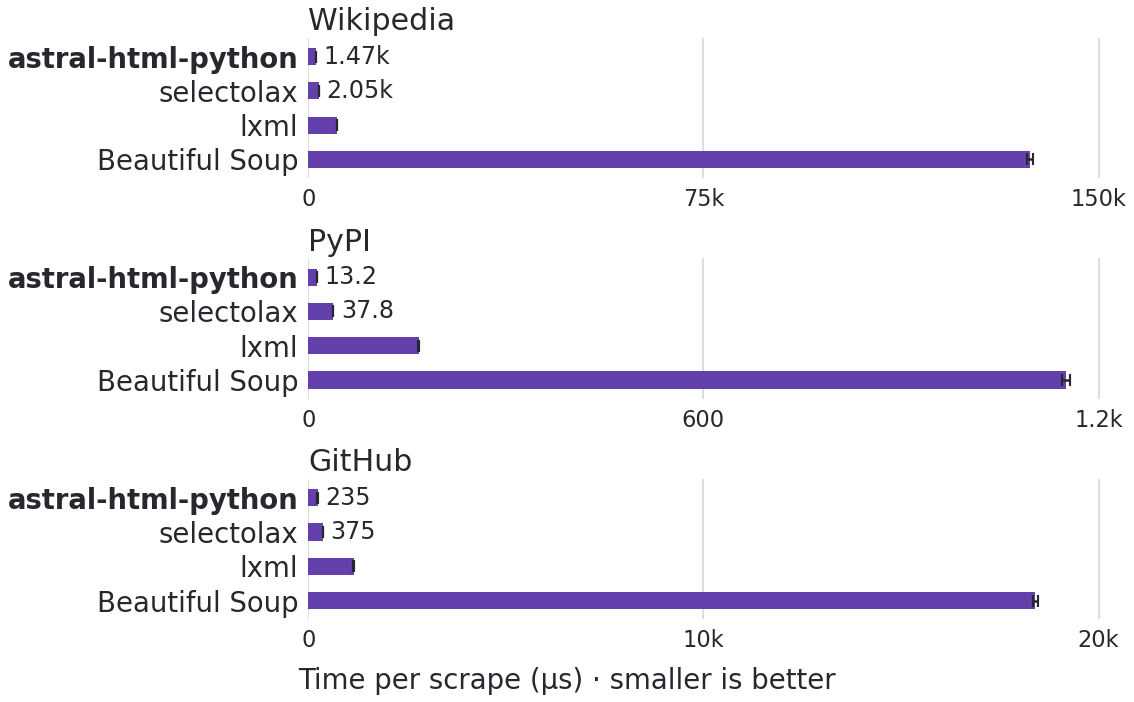
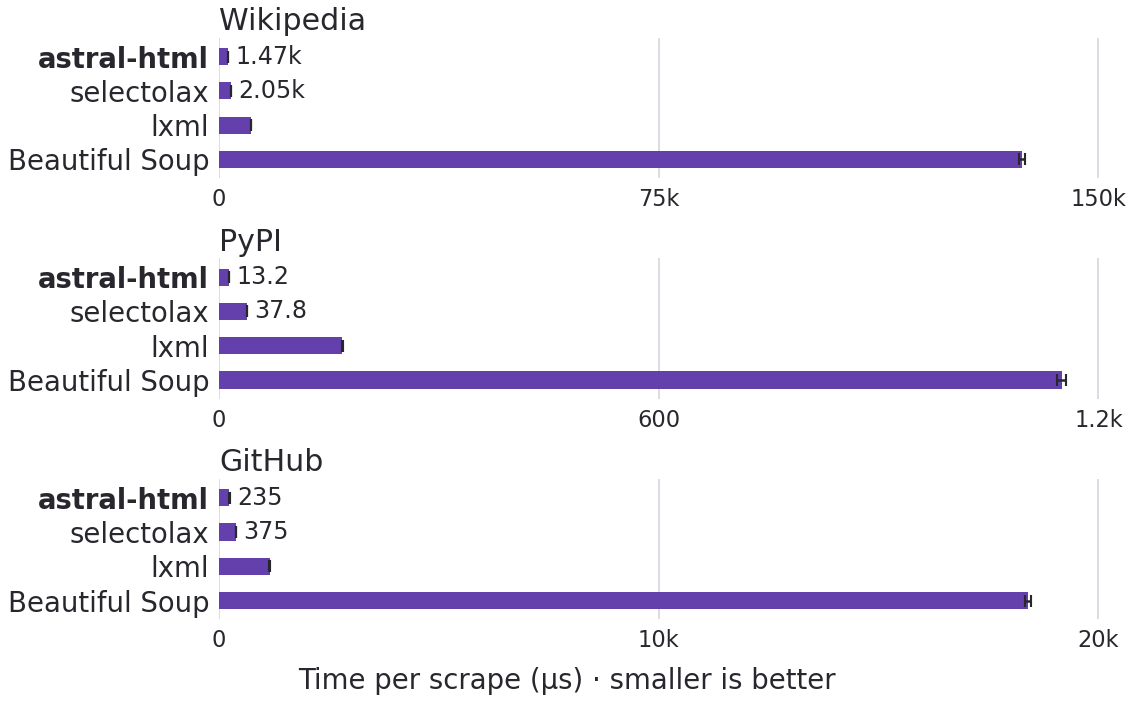
Rename the Python distribution to astral-html (#60)

diff --git a/benchmarks/wheel_abi.py b/benchmarks/wheel_abi.py
@@ -180,6 +180,12 @@ def main():
     cli = argparse.ArgumentParser(description=__doc__)
     cli.add_argument("corpus", nargs="?", type=Path, help="WCXB checkout")
     cli.add_argument("wheels", nargs="?", type=Path, help="wheel directory")
+    cli.add_argument(
+        "--distribution",
+        choices=("astral-html", "astral-html-python"),
+        default="astral-html",
+        help="distribution name used by the wheel source revision",
+    )
     cli.add_argument("--pairs", type=int, default=20)
     action = cli.add_mutually_exclusive_group(required=True)
     action.add_argument("--output", type=Path, help="save raw paired µs/page")
@@ -207,11 +213,12 @@ def main():
         cp = f"cp{sys.version_info.major}{sys.version_info.minor}"
         wheels = []
         hashes = {}
+        wheel_prefix = args.distribution.replace("-", "_")
         for tag in (f"{cp}-{cp}", "cp314-abi3"):
-            matches = list(args.wheels.glob(f"astral_html_python-*-{tag}-*.whl"))
+            matches = list(args.wheels.glob(f"{wheel_prefix}-*-{tag}-*.whl"))
             if len(matches) != 1:
                 cli.error(
-                    f"expected one {tag} astral-html-python wheel, found {matches}"
+                    f"expected one {tag} {args.distribution} wheel, found {matches}"
                 )
             whl = matches[0]
             directory = Path(tmp, whl.name)

diff --git a/benchmarks/plot.py b/benchmarks/plot.py
@@ -15,7 +15,7 @@ data = json.loads((directory / "filtered-links.json").read_text())
 rows = {(row["fixture"], row["parser"]): row for row in data["measurements"]}
 sites = {"wikipedia": "Wikipedia", "pypi": "PyPI", "github": "GitHub"}
 parsers = {
-    "astral-html": "astral-html-python",
+    "astral-html": "astral-html",
     "selectolax (Lexbor)": "selectolax",
     "lxml": "lxml",
     "Beautiful Soup": "Beautiful Soup",

diff --git a/tests/test_api.py b/tests/test_api.py
@@ -1,7 +1,12 @@
 import sys
+from importlib.metadata import metadata
 
 import pytest
 from astral_html import ResourceLimitError, parse
+
+
+def test_distribution_name() -> None:
+    assert metadata("astral-html")["Name"] == "astral-html"
 
 
 def test_parse_and_traverse() -> None:

diff --git a/benchmarks/run.py b/benchmarks/run.py
@@ -336,7 +336,7 @@ def main():
         cli.error("need a positive, finite batch time")
 
     packages = [
-        "astral-html-python",
+        "astral-html",
         "selectolax",
         "lxml",
         "cssselect",

diff --git a/benchmarks/wcxb.md b/benchmarks/wcxb.md
@@ -41,11 +41,11 @@ of both timing groups as well as the extracted URLs and text.
 
 | Parser | Pages matching Lexbor (of 1,867) | Rejected pages | Extracted links |
 | --- | ---: | ---: | ---: |
-| astral-html-python | 1,757 | 1 | 323,196 |
+| astral-html | 1,757 | 1 | 323,196 |
 | selectolax (Lexbor) | 1,867 | 0 | 323,120 |
 | lxml | 1,698 | 0 | 323,344 |
 | Beautiful Soup (lxml) | 641 | 0 | 323,458 |
-| astral-html-python, link subtrees | 1,757 | 1 | 323,196 |
+| astral-html, link subtrees | 1,757 | 1 | 323,196 |
 
 Both Astral modes rejected `dev/html/2875.html.gz` at the nesting limit.
 [Parser limits](../docs/parsing.md#resource-limits)
@@ -58,11 +58,11 @@ contribute the same measurements to both columns.
 
 | Parser | All 1,866 pages (µs/page ± SE) | Identical output on 617 pages (µs/page ± SE) |
 | --- | ---: | ---: |
-| astral-html-python | 729.7 ± 1.2 | 716.4 ± 2.5 |
+| astral-html | 729.7 ± 1.2 | 716.4 ± 2.5 |
 | selectolax (Lexbor) | 961.2 ± 6.2 | 887.6 ± 13.8 |
 | lxml | 2,752.9 ± 5.6 | 2,485.7 ± 12.1 |
 | Beautiful Soup (lxml) | 31,498.0 ± 28.0 | 25,686.3 ± 28.0 |
-| astral-html-python, link subtrees | 680.7 ± 3.4 | 679.3 ± 10.2 |
+| astral-html, link subtrees | 680.7 ± 3.4 | 679.3 ± 10.2 |
 
 On the 617 pages with identical output, Astral's full-tree scrape took 19.1%
 less time per page than Lexbor on average. The 95% confidence interval for
@@ -78,9 +78,9 @@ collects garbage before timing each group and leaves cyclic GC enabled while
 scraping. Archive reads, decompression, output comparison, and warmup are
 outside the timer.
 
-We measured astral-html-python 0.0.1 on a GitHub-hosted x86_64 runner with
-Ubuntu 24.04.5 LTS and an AMD EPYC 7763 64-Core Processor. We pinned the
-workers to logical CPU 0. We built the release wheel from the source
+We measured astral-html-python 0.0.1 (now named astral-html) on a GitHub-hosted
+x86_64 runner with Ubuntu 24.04.5 LTS and an AMD EPYC 7763 64-Core Processor.
+We pinned the workers to logical CPU 0. We built the release wheel from the source
 distribution with Rust 1.99.0 and maturin 1.15.0. The run used CPython 3.14.9
 and glibc 2.39. The other libraries were selectolax 1.0.0 (Lexbor), lxml 6.1.3
 with cssselect 1.5.0, and Beautiful Soup 4.15.0 with its lxml backend.

diff --git a/benchmarks/README.md b/benchmarks/README.md
@@ -2,7 +2,7 @@
 
 Each full scrape starts with a saved UTF-8 response body in memory and ends
 with a Python list of `(href, descendant text)` pairs. It includes parsing,
-CSS selection, and extraction. The astral-html-python API takes a string, so
+CSS selection, and extraction. The astral-html API takes a string, so
 its timed parse includes UTF-8 decoding. The other parsers receive the bytes
 directly. Disk and network I/O are outside the timer.
 
@@ -65,9 +65,9 @@ Parsing and full scrapes create a new tree each iteration. Automatic collection
 can reclaim earlier trees during timing. Any cleanup after the measured batch
 is outside the timer. The last column reuses one parsed document.
 
-We measured astral-html-python 0.0.1 on a GitHub-hosted x86_64 runner with
-Ubuntu 24.04.5 LTS and an AMD EPYC 7763 64-Core Processor. We pinned the
-workers to logical CPU 0. We built the release wheel from the source
+We measured astral-html-python 0.0.1 (now named astral-html) on a GitHub-hosted
+x86_64 runner with Ubuntu 24.04.5 LTS and an AMD EPYC 7763 64-Core Processor.
+We pinned the workers to logical CPU 0. We built the release wheel from the source
 distribution with Rust 1.99.0 and maturin 1.15.0. The run used CPython 3.14.9
 and glibc 2.39. The other libraries were selectolax 1.0.0 (Lexbor), lxml 6.1.3
 with cssselect 1.5.0, and Beautiful Soup 4.15.0 with its lxml backend.

diff --git a/README.md b/README.md
@@ -1,4 +1,4 @@
-# astral-html-python
+# astral-html
 
 > [!WARNING]
 >
@@ -7,13 +7,13 @@
 ---
 
 A very fast HTML parser with CSS selectors for Python web scrapers. It’s written
-in Rust and uses the [astral-html](https://github.com/astral-sh/astral-html) tokenizer.
+in Rust and uses the [astral-html tokenizer crate](https://github.com/astral-sh/astral-html).
 
 <!-- Keep chart paths relative so GitHub shows the images from the revision being viewed. -->
 <p align="center">
   <picture>
     <source media="(prefers-color-scheme: dark)" srcset="benchmarks/filtered-links-dark.png">
-    <img src="benchmarks/filtered-links.png" width="660" alt="Mean scrape time for four parsers. astral-html-python took the least time on the Wikipedia, PyPI, and GitHub pages.">
+    <img src="benchmarks/filtered-links.png" width="660" alt="Mean scrape time for four parsers. astral-html took the least time on the Wikipedia, PyPI, and GitHub pages.">
   </picture>
 </p>
 

diff --git a/benchmarks/wheel-abi.md b/benchmarks/wheel-abi.md
@@ -117,7 +117,8 @@ python -I benchmarks/wheel_abi.py --summarize benchmarks/wheel-abi-samples/4ba2c
 
 Run from the repository root with Rust 1.99.0 and both supported Python
 versions available to uv. Start with the October 29 wheel sources and the
-benchmark runner in this checkout.
+benchmark runner in this checkout. Both measured revisions used the former
+distribution name `astral-html-python`.
 
 ```sh
 d=$(mktemp -d)
@@ -161,6 +162,6 @@ for py in 3.14.8 3.15.0; do
     interpreter="$d/env-$py/bin/python"
     cpu=$("$interpreter" -c 'import os; print(min(os.sched_getaffinity(0)))')
     taskset -c "$cpu" "$interpreter" -I "$runner" \
-        "$d/wcxb" "$d/wheels" --output "$d/results-$py.json"
+        "$d/wcxb" "$d/wheels" --distribution astral-html-python --output "$d/results-$py.json"
 done
 ```
